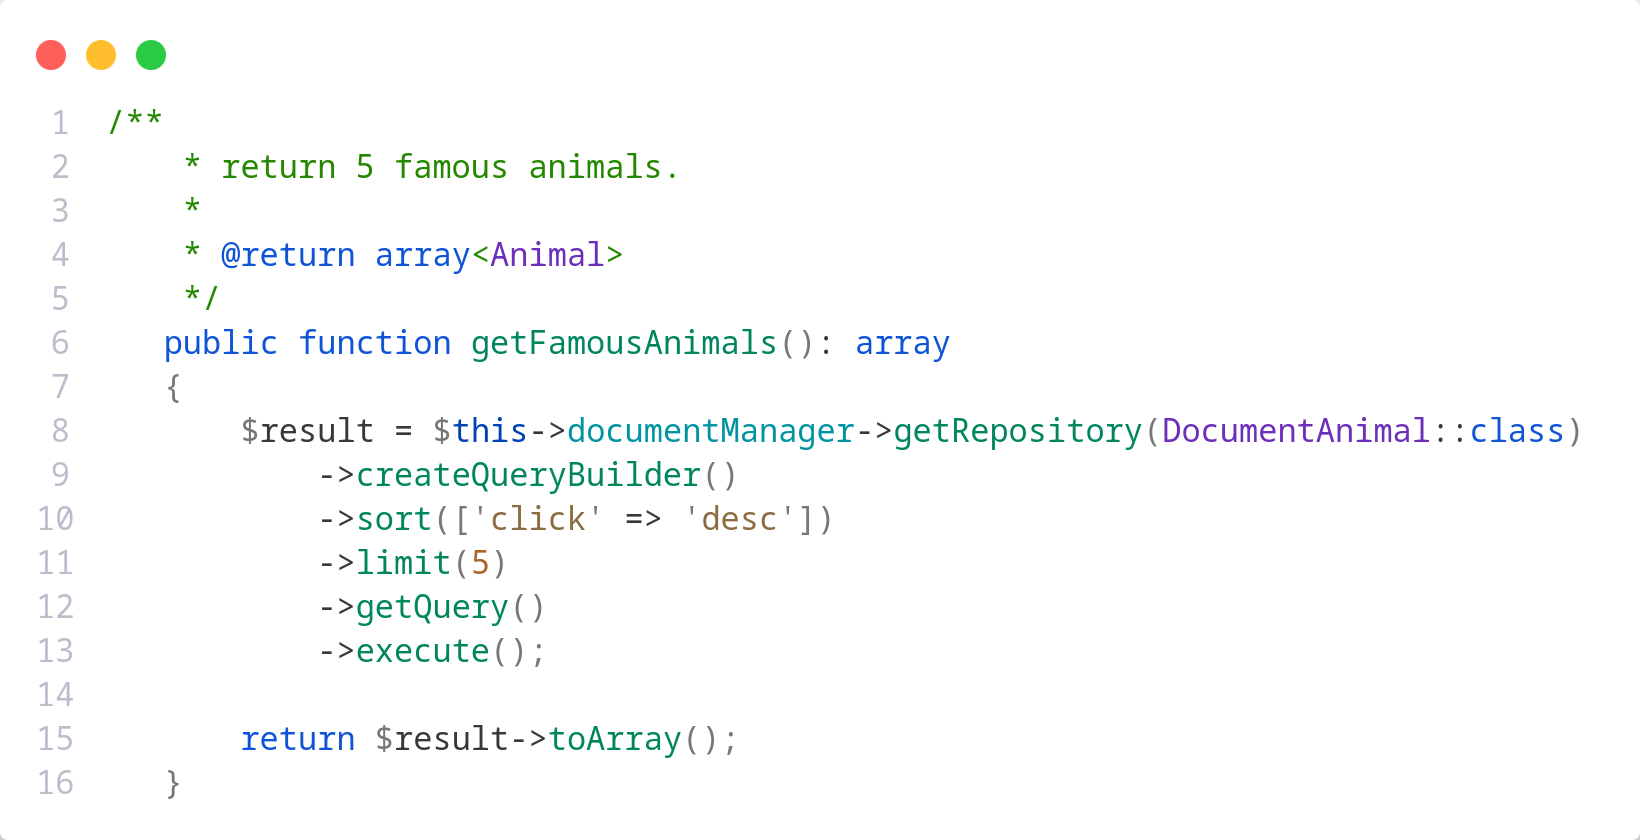
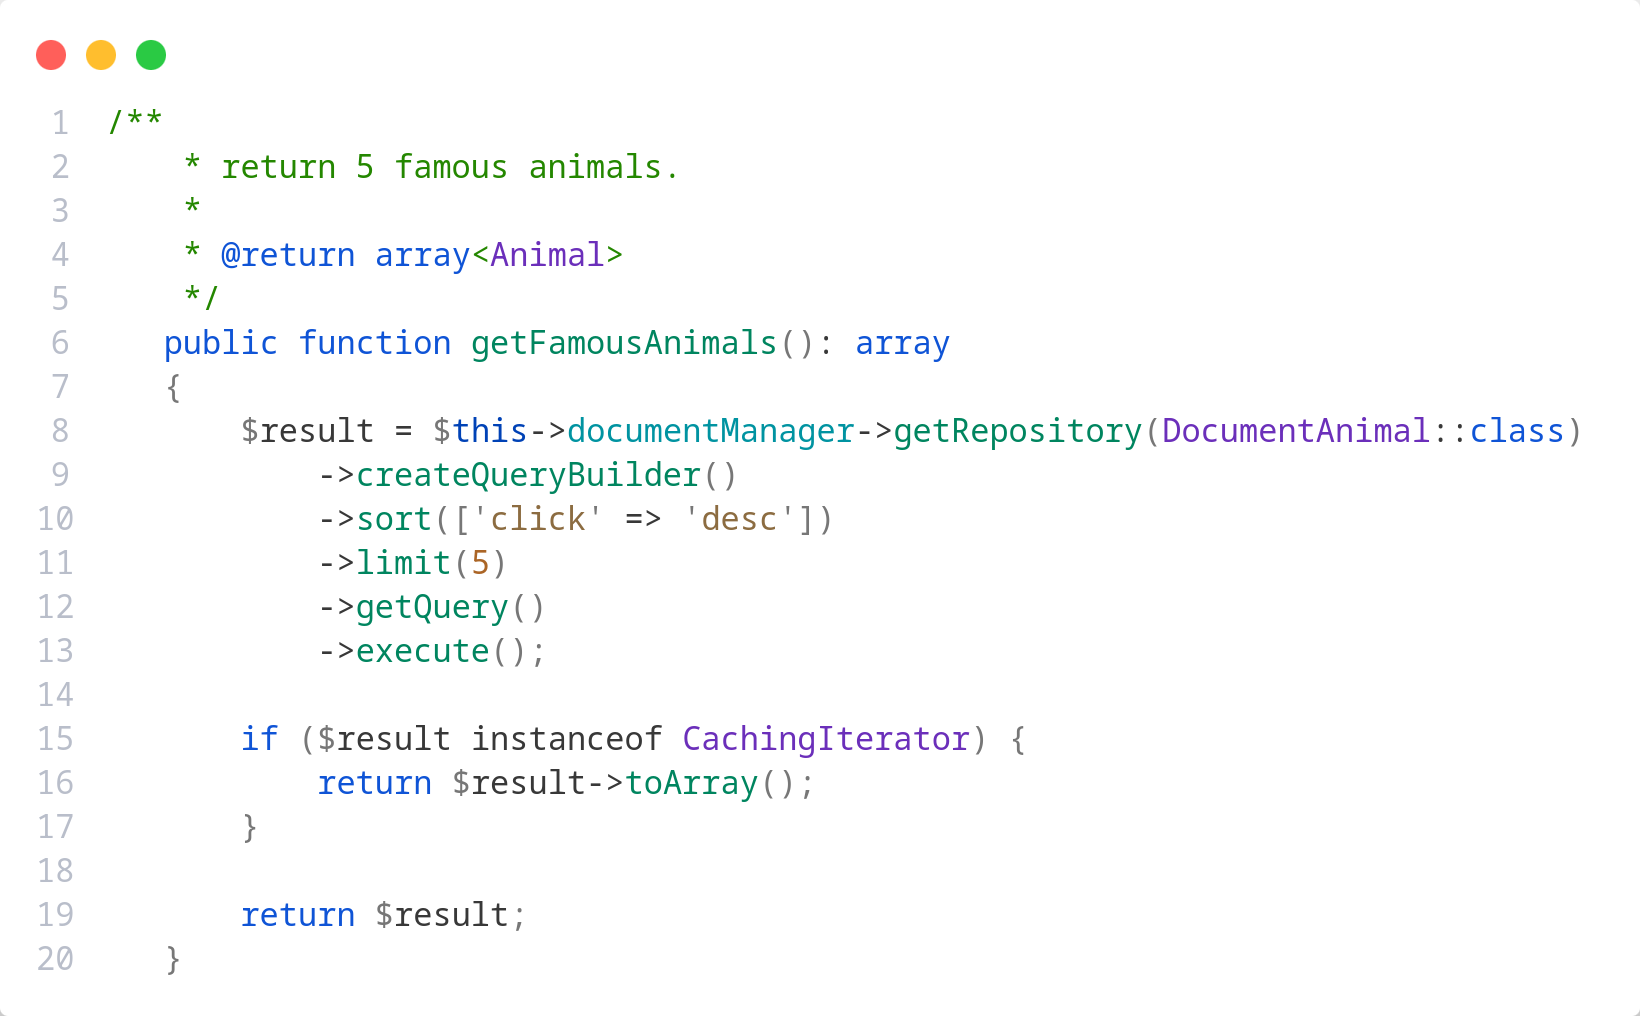
fix: check if result is CachingIterator

diff --git a/src/Service/FamousAnimalService.php b/src/Service/FamousAnimalService.php
@@ -6,14 +6,14 @@ use App\Document\Animal;
 use App\Document\Animal as DocumentAnimal;
 use App\Repository\AnimalRepository;
 use Doctrine\ODM\MongoDB\DocumentManager;
+use Doctrine\ODM\MongoDB\Iterator\CachingIterator;
 
 class FamousAnimalService
 {
     public function __construct(
         private DocumentManager $documentManager,
         private AnimalRepository $animalRepository,
-    ) {
-    }
+    ) {}
 
     public function incrementAnimalClick(int $animalId): void
     {
@@ -91,6 +91,10 @@ class FamousAnimalService
             ->getQuery()
             ->execute();
 
-        return $result->toArray();
+        if ($result instanceof CachingIterator) {
+            return $result->toArray();
+        }
+
+        return [];
     }
 }
